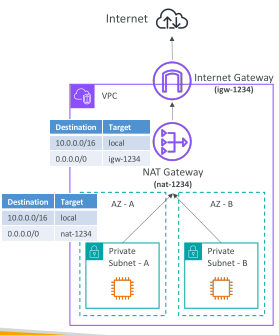
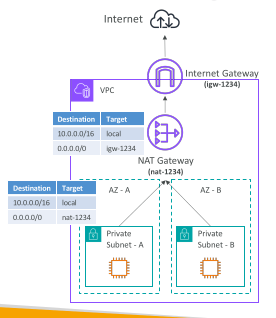
changes

Changed region(s): [[0.0, 0.1132, 0.9855, 1.0], [0.3768, 0.0, 0.6957, 0.1132]]

diff --git a/Solutions_architect/23_VPC/start.md b/Solutions_architect/23_VPC/start.md
@@ -1,3 +1,304 @@
 ## Amazon VPC
 
 ## VPC Components Diagram
+
+![Image](../saa/vpc_components.png)
+
+## Understanding CIDR – IPv4
+
+• Classless Inter-Domain Routing – a method for allocating IP addresses
+
+• Used in Security Groups rules and AWS networking in general
+
+![Image](../saa/cidr.png)
+
+They help to define an IP address range:
+ - We’ve seen WW.XX.YY.ZZ/32 => one IP
+ - We’ve seen 0.0.0.0/0 => all IPs
+ - But we can define:192.168.0.0/26 =>192.168.0.0 – 192.168.0.63 (64 IP addresses)
+
+## Understanding CIDR – IPv4
+
+
+A CIDR consists of two components
+
+Base IP
+ - Represents an IP contained in the range (XX.XX.XX.XX)
+ - Example: 10.0.0.0, 192.168.0.0, …
+
+Subnet Mask
+ - Defines how many bits can change in the IP
+ - Example: /0, /24, /32
+ - Can take two forms:
+   - /8 ó 255.0.0.0
+   - /16 ó 255.255.0.0
+   - /24 ó 255.255.255.0
+   - /32 ó 255.255.255.255
+
+## Understanding CIDR – Subnet Mask
+
+• The Subnet Mask basically allows part of the underlying IP to get additional next values from the base IP
+
+![Image](../saa/cidr_subnet_mask.png)
+
+## Understanding CIDR – Little Exercise
+
+192.168.0.0/24 = … ?
+ - 192.168.0.0 – 192.168.0.255 (256 IPs)
+
+192.168.0.0/16 = … ?
+ - 192.168.0.0 – 192.168.255.255 (65,536 IPs)
+
+134.56.78.123/32 = … ?
+ - Just 134.56.78.123
+
+0.0.0.0/0
+ - All IPs!
+
+When in doubt, use this website https://www.ipaddressguide.com/cidr
+
+## Public vs. Private IP (IPv4)
+
+• The Internet Assigned Numbers Authority (IANA) established certain blocks of IPv4 addresses for the use of private (LAN) and public (Internet) addresses
+
+Private IP can only allow certain values:
+ - 10.0.0.0 – 10.255.255.255 (10.0.0.0/8) ç in big networks
+ - 172.16.0.0 – 172.31.255.255 (172.16.0.0/12) ç AWS default VPC in that range
+ - 192.168.0.0 – 192.168.255.255 (192.168.0.0/16) ç e.g., home networks
+
+All the rest of the IP addresses on the Internet are Public
+
+## Default VPC Walkthrough
+
+All new AWS accounts have a default VPC
+
+New EC2 instances are launched into the default VPC if no subnet is specified
+
+Default VPC has Internet connectivity and all EC2 instances inside it have public IPv4 addresses
+
+We also get a public and a private IPv4 DNS names
+
+## VPC in AWS – IPv4
+
+VPC = Virtual Private Cloud
+
+You can have multiple VPCs in an AWS region (max. 5 per region – soft limit)
+
+Max. CIDR per VPC is 5, for each CIDR:
+ - Min. size is /28 (16 IP addresses)
+ - Max. size is /16 (65536 IP addresses)
+
+Because VPC is private, only the Private IPv4 ranges are allowed:
+ - 10.0.0.0 – 10.255.255.255 (10.0.0.0/8)
+ - 172.16.0.0 – 172.31.255.255 (172.16.0.0/12)
+ - 192.168.0.0 – 192.168.255.255 (192.168.0.0/16)
+
+Your VPC CIDR should NOT overlap with your other networks (e.g., corporate)
+
+## State of Hands-on
+
+![Image](../saa/state_of_hands_on.png)
+
+## Adding Subnets
+
+![Image](../saa/adding_subnets.png)
+
+## VPC – Subnet (IPv4) - EXAM IMPORTANT
+
+AWS reserves 5 IP addresses (first 4 & last 1) in each subnet
+
+These 5 IP addresses are not available for use and can’t be assigned to an EC2 instance
+
+Example: if CIDR block 10.0.0.0/24, then reserved IP addresses are:
+ - 10.0.0.0 – Network Address
+ - 10.0.0.1 – reserved by AWS for the VPC router
+ - 10.0.0.2 – reserved by AWS for mapping to Amazon-provided DNS
+ - 10.0.0.3 – reserved by AWS for future use
+ - 10.0.0.255 – Network Broadcast Address. AWS does not support broadcast in a VPC, therefore the address is reserved
+
+Exam Tip, if you need 29 IP addresses for EC2 instances:
+ - You can’t choose a subnet of size /27 (32 IP addresses, 32 – 5 = 27 < 29)
+ - You need to choose a subnet of size /26 (64 IP addresses, 64 – 5 = 59 > 29)
+
+## Internet Gateway (IGW)
+
+Allows resources (e.g., EC2 instances) in a VPC connect to the Internet
+
+It scales horizontally and is highly available and redundant
+
+Must be created separately from a VPC
+
+One VPC can only be attached to one IGW and vice versa
+
+Internet Gateways on their own do not allow Internet access…
+
+Route tables must also be edited!
+
+## Adding Internet Gateway
+
+![Image](../saa/adding_internet_gateway.png)
+
+## Editing Route Tables
+
+![Image](../saa/editing_route_tables.png)
+
+## Bastion Hosts
+
+• We can use a Bastion Host to SSH into our private EC2 instances
+
+• The bastion is in the public subnet which is then connected to all other private subnets
+
+• Bastion Host security group must allow inbound from the internet on port 22 from restricted CIDR, for example the public CIDR of your corporation
+
+• Security Group of the EC2 Instances must allow the Security Group of the Bastion Host, or the private IP of the Bastion host
+
+![Image](../saa/bastion_hosts.png )
+
+## NAT Instance (outdated, but still at the exam)
+
+• NAT = Network Address Translation
+
+• Allows EC2 instances in private subnets to connect to the Internet
+
+• Must be launched in a public subnet
+
+• Must disable EC2 setting: Source / destination Check
+
+• Must have Elastic IP attached to it
+
+• Route Tables must be configured to route traffic from private subnets to the NAT Instance
+
+![Image](../saa/nat_instance.png)
+
+## NAT Instance
+
+![Image](../saa/nat_instance2.png)
+
+## NAT Instance – Comments
+
+Pre-configured Amazon Linux AMI is available
+Reached the end of standard support on December 31, 2020
+
+Not highly available / resilient setup out of the box
+You need to create an ASG in multi-AZ + resilient user-data script
+
+Internet traffic bandwidth depends on EC2 instance type
+
+You must manage Security Groups & rules:
+ - Inbound:
+   - Allow HTTP / HTTPS traffic coming from Private Subnets
+   - Allow SSH from your home network (access is provided through Internet Gateway)
+ - Outbound:
+   - Allow HTTP / HTTPS traffic to the Internet
+
+
+## NAT Gateway
+
+• AWS-managed NAT, higher bandwidth, high availability, no administration
+
+• Pay per hour for usage and bandwidth
+
+• NATGW is created in a specific Availability Zone, uses an Elastic IP
+
+• Can’t be used by EC2 instance in the same subnet (only from other subnets)
+
+• Requires an IGW (Private Subnet => NATGW => IGW)
+
+• 5 Gbps of bandwidth with automatic scaling up to 100 Gbps
+
+• No Security Groups to manage / required
+
+
+## NAT Gateway
+
+![Image](../saa/nat_gateway.png)
+
+## NAT Gateway with High Availability
+
+• NAT Gateway is resilient within asingle Availability Zone
+
+• Must create multiple NAT Gateways in multiple AZs for fault-tolerance
+
+• There is no cross-AZ failover needed because if an AZ goes down it doesn't need NAT
+
+![iMAGE](../saa/nat_gateway_HA.png)
+
+## NAT Gateway vs. NAT Instance - Exam important
+
+![iMAGE](../saa/NAT_GATEWAY_VS_NAT_INSTANCE.png)
+
+## Regional NAT Gateway (RNAT)
+
+• Highly available NAT Gateway associated with VPC
+
+• RNAT has its own route tables
+
+• Eliminating the need for per-AZ deployments (shared across AZs)
+
+• You don’t need to create Public Subnets in your VPC to host RNAT
+
+• Automatically detects resources in a new AZ and expands to this AZ
+
+![Image](../saa/regional_nat_gateway.png)
+
+## Security Groups & NACLs
+
+![Image](../saa/secuirty_groups_nacls.png)
+
+## Network Access Control List (NACL)
+
+NACL are like a firewall which control traffic from and to subnets
+
+One NACL per subnet, new subnets are assigned the Default NACL
+
+You define NACL Rules:
+ - Rules have a number (1-32766), higher precedence with a lower number
+ - First rule match will drive the decision
+ - Example: if you define #100 ALLOW 10.0.0.10/32 and #200 DENY 10.0.0.10/32, the IP address will be allowed because 100 has a higher precedence over 200
+ - The last rule is an asterisk (*) and denies a request in case of no rule match
+ - AWS recommends adding rules by increment of 100
+
+Newly created NACLs will deny everything
+
+NACL are a great way of blocking a specific IP address at the subnet level
+
+## NACLs
+
+![Image](../saa/nacls.png)
+
+## Default NACL - Exam important
+
+• Accepts everything inbound/outbound with the subnets it’s associated with
+• Do NOT modify the Default NACL, instead create custom NACLs
+
+![Image](../saa/default_nacl.png)
+
+## Ephemeral Ports
+
+For any two endpoints to establish a connection, they must use ports
+
+Clients connect to a defined port, and expect a response on an ephemeral port
+
+Different Operating Systems use different port ranges, examples:
+ - IANA & MS Windows 10 è 49152 – 65535
+ - Many Linux Kernels è 32768 – 60999
+
+![Image](../saa/ephemeral_ports.png)
+
+## NACL with Ephemeral Ports
+
+![Image](../saa/nacl_ephemeral.png)
+
+## Create NACL rules for each target subnets CIDR
+
+![Image](../saa/nacl_targets_subnets.png)
+
+## Security Group vs. NACLs
+
+| **Security Group (SG)**                                                    | **Network ACL (NACL)**                                                                       |
+| -------------------------------------------------------------------------- | -------------------------------------------------------------------------------------------- |
+| Operates at the **instance level**                                         | Operates at the **subnet level**                                                             |
+| Supports **allow rules only**                                              | Supports **allow and deny rules**                                                            |
+| **Stateful**: return traffic is automatically allowed, regardless of rules | **Stateless**: return traffic must be explicitly allowed by rules (think of ephemeral ports) |
+| **All rules are evaluated** before deciding whether to allow traffic       | Rules are evaluated **in order (lowest to highest)**; first match wins                       |
+| Applies to an EC2 instance when **specified/associated**                   | Automatically applies to **all EC2 instances in the associated subnet**                      |

diff --git a/project_ideas.md b/project_ideas.md
@@ -163,6 +163,16 @@ after that run checkthe history of the alarm and its state and check to see the 
 
 1. Create a bareminimum ec2 instance and make sure its running, terminateit and observer the event history after five to ten minutes in the cloudtrail events history to see if its generated.
 
-## IPV6
 
-Navigate to demovpc, actions and edit cidrs. Create add ipv6 CIDR and choose Amazon-provided IPV6 CIDR. We will create an ipv6 cidr for the publicsubnetA, select bastion host and actions. Under networking you will see manage ip addresses, click on the eni interface and assign a new ipv6 address and leave it at auto-assign
+## VPC
+
+1. Creata a vpc. Give it a name tag DemoVPC, IPv4 Cidr manual input, IPv4 CIDR is 10.0.0.0/16 and No IPv6 CIDR block. Tenancy set to Default and create the vpc.
+
+1. Here in this exercise we will create 4 subnets for our new vps. Two subnets will be private and 2 will be public. The first public subnet will have a 10.0.0.0/24 CIDR and it will be in availabiliy zone us-east-1a (256 available ip addresses with the first ip address starting from 10.0.0.0 and the last having 10.0.0.25 ). The second public subnet will have a cidr of 10.0.1.0/24 in us-east-1b and will have  256 ip addresses (first ip address will be 10.0.1.0 and the last one will be 10.0.1.255). So the first and second subnets have different ips. The private subnets are assumed to have more hosts. So we will give both a /20 cidr. The first private subnet will hae a cidr block of 10.0.16.0/20 (4096 available ips, 10.0.16.0 is the first ip address, 10.0.31.255 is the last one) and the other one which will be in us-east-1b will have a cidr block of 10.0.32.0/20 (4096 available ips, with 10.0.32.0 as the first IP and 10.0.47.255 ad the last ip)
+
+3. Edit both public subnets and enable ip address auto assigning. Create an ec2 instance with default settings and make sure the ec2 instance is in the vpc you just created and in publicsubnetA and has not key pair. Try connecting using ec2 instance connect and it should fail because there is no internet gateway. Create an internet gateway and attach to the vpc. Try connecting to the ec2 instance again using ecn instance connect, it should fail. Because there is no route table. Create two route tables the private route table and the public route table, explicitly associate theprivate subnets to the private route table and vice versa. Now we will edit the routes in the public route table to send traffic to the internet gateway. So we will add a route Destination 0.0.0.0/0 and target internet gateway and we pick the internet gateway we created. The first rule means that any instance within our vpc (10.0.0.0/16) goes to local which means from within our vpc. The new rule means that anthying else (0.0.0.0/0) which includes public ips (that your ec2 instance was given) can go to the internet gateway. Now connect to the ec2 using ec2 instance connect and ping google.com
+
+4. Rename the ec2 instance as bation host. It will be used toas a bastion to log into ec2 instances that are in the private subnet. Users will ssh into the bastion and jump into the private ec2 instances. Create another ec2 instance and the key pair select the one you created earlier in the course or create a new.pem one with rsa. Choose the vpc we created and private subnet A. Create new security group and name it privatesg. n the inbound security group rules select source type of ssh as custom and the source choose the security group of the bastion host, decsription write allow ssh for bastion host. Launch the instance. Connect the bastion ec2 from ec2 instance connect, create a file named DemoKeypair.pem and copy the contents of the key pair in this file. Now ssh into the new ec2 instance ```ssh ec2-user@privateip -i DemoKeypair.pem```
+
+5. Create a NAT gateway. Give it a name, availabilitymode = zonal Subnet = PublicSubnetA, Connectivity type = public and allocate an elastic IP. Edit your private route table and allow all ips (0.0.0.0/0) destionation to access the target NAT gateway you created. Login to the private ec2 via the bastion and ping google.com (It should work)
+

diff --git a/Solutions_architect/temp/projects.md b/Solutions_architect/temp/projects.md
@@ -103,3 +103,22 @@ LIMIT 100;
 From here i can see the results and filter based on which ip is trying to access me the most. 
 
 DELETE THE TWO FLOW LOGS.
+
+
+<<<<<<< HEAD
+## IPV6
+
+Navigate to demovpc, actions and edit cidrs. Create add ipv6 CIDR and choose Amazon-provided IPV6 CIDR. We will create an ipv6 cidr for the publicsubnetA, select bastion host and actions. Under networking you will see manage ip addresses, click on the eni interface and assign a new ipv6 address and leave it at auto-assign
+=======
+## VPC
+
+1. Creata a vpc. Give it a name tag DemoVPC, IPv4 Cidr manual input, IPv4 CIDR is 10.0.0.0/16 and No IPv6 CIDR block. Tenancy set to Default and create the vpc.
+
+1. Here in this exercise we will create 4 subnets for our new vps. Two subnets will be private and 2 will be public. The first public subnet will have a 10.0.0.0/24 CIDR and it will be in availabiliy zone us-east-1a (256 available ip addresses with the first ip address starting from 10.0.0.0 and the last having 10.0.0.25 ). The second public subnet will have a cidr of 10.0.1.0/24 in us-east-1b and will have  256 ip addresses (first ip address will be 10.0.1.0 and the last one will be 10.0.1.255). So the first and second subnets have different ips. The private subnets are assumed to have more hosts. So we will give both a /20 cidr. The first private subnet will hae a cidr block of 10.0.16.0/20 (4096 available ips, 10.0.16.0 is the first ip address, 10.0.31.255 is the last one) and the other one which will be in us-east-1b will have a cidr block of 10.0.32.0/20 (4096 available ips, with 10.0.32.0 as the first IP and 10.0.47.255 ad the last ip)
+
+3. Edit both public subnets and enable ip address auto assigning. Create an ec2 instance with default settings and make sure the ec2 instance is in the vpc you just created and in publicsubnetA and has not key pair. Try connecting using ec2 instance connect and it should fail because there is no internet gateway. Create an internet gateway and attach to the vpc. Try connecting to the ec2 instance again using ecn instance connect, it should fail. Because there is no route table. Create two route tables the private route table and the public route table, explicitly associate theprivate subnets to the private route table and vice versa. Now we will edit the routes in the public route table to send traffic to the internet gateway. So we will add a route Destination 0.0.0.0/0 and target internet gateway and we pick the internet gateway we created. The first rule means that any instance within our vpc (10.0.0.0/16) goes to local which means from within our vpc. The new rule means that anthying else (0.0.0.0/0) which includes public ips (that your ec2 instance was given) can go to the internet gateway. Now connect to the ec2 using ec2 instance connect and ping google.com
+
+4. Rename the ec2 instance as bation host. It will be used toas a bastion to log into ec2 instances that are in the private subnet. Users will ssh into the bastion and jump into the private ec2 instances. Create another ec2 instance and the key pair select the one you created earlier in the course or create a new.pem one with rsa. Choose the vpc we created and private subnet A. Create new security group and name it privatesg. n the inbound security group rules select source type of ssh as custom and the source choose the security group of the bastion host, decsription write allow ssh for bastion host. Launch the instance. Connect the bastion ec2 from ec2 instance connect, create a file named DemoKeypair.pem and copy the contents of the key pair in this file. Now ssh into the new ec2 instance ```ssh ec2-user@privateip -i DemoKeypair.pem```
+
+5. Create a NAT gateway. Give it a name, availabilitymode = zonal Subnet = PublicSubnetA, Connectivity type = public and allocate an elastic IP. Edit your private route table and allow all ips (0.0.0.0/0) destionation to access the target NAT gateway you created. Login to the private ec2 via the bastion and ping google.com (It should work)
+>>>>>>> 57e7ce2 (changes)
